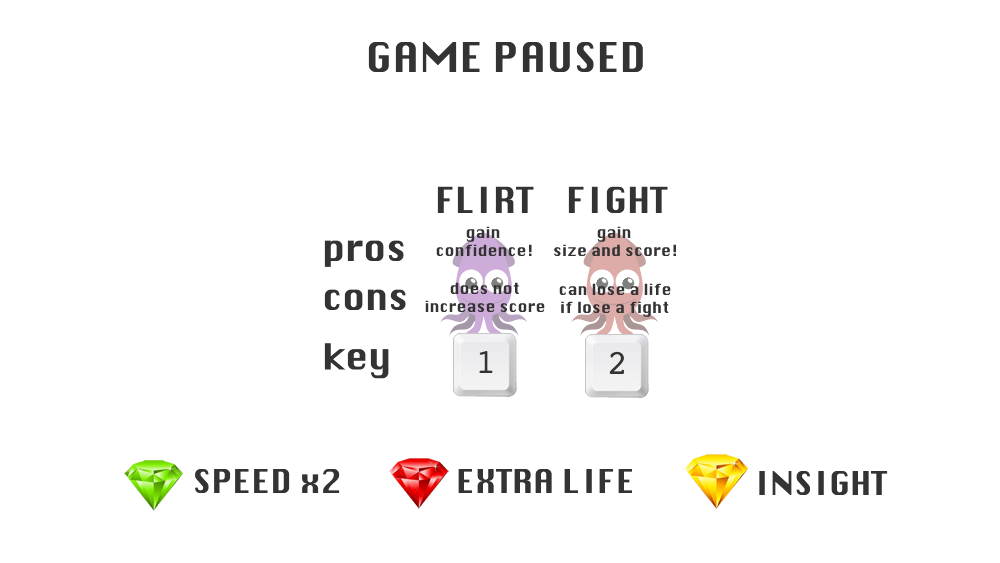
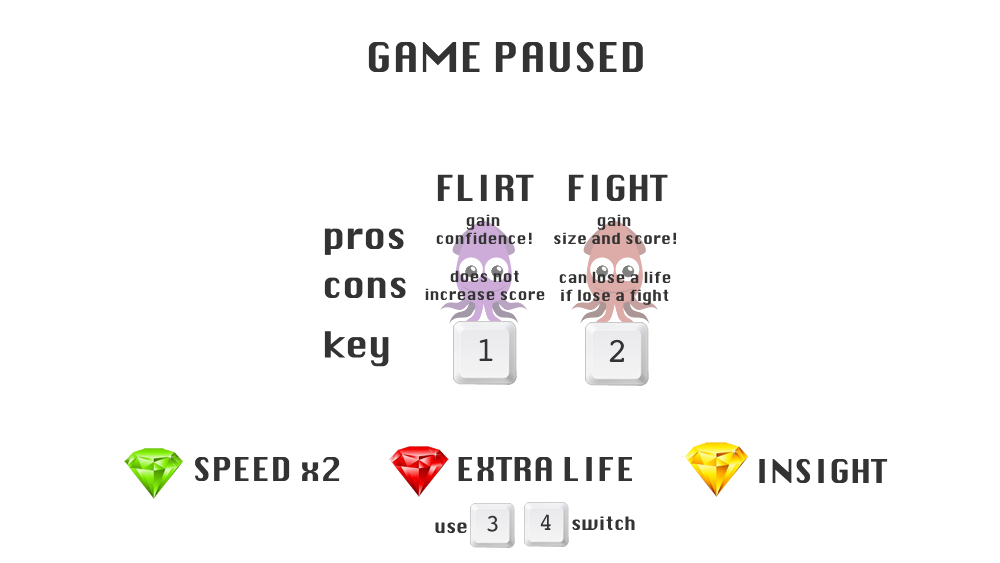
beta release

diff --git a/src/objects/PlayerSquid.js b/src/objects/PlayerSquid.js
@@ -13,7 +13,7 @@ class PlayerSquid extends Squid {
 
 		this.speed = 6;
 		this.powerUpSelected= null;
-		this.powerUpBank = [];
+		this.powerUpBank = {};
     }
 
     /**
@@ -83,13 +83,12 @@ class PlayerSquid extends Squid {
 		}
 		// Number 4 for toggle powerup
 		if (pressedKeys.contains(52)) {
-			for (var type in this.powerUpBank) {
-				if (type != this.powerUpSelected) {
-					this.powerUpSelected = type;
-					break;
-				}
-			}
-			console.log("Power up: " + this.powerUpSelected);
+			if (this.powerUpSelected == POWER_UP.SPEED && this.powerUpBank[POWER_UP.INVINCIBLE] != null)
+				this.selectPowerUp(POWER_UP.INVINCIBLE)
+			else if (this.powerUpBank[POWER_UP.SPEED] != null)
+				this.selectPowerUp(POWER_UP.SPEED)
+
+			pressedKeys.remove(52);
 		}
     }
 
@@ -182,7 +181,7 @@ class PlayerSquid extends Squid {
 				this.powerUpBank[type] = {"count":0, "object": object, "start": null};
 			
 			this.powerUpBank[type].count++;
-			this.powerUpSelected = type;
+			this.selectPowerUp(type);
 		}
 	}
 
@@ -194,14 +193,27 @@ class PlayerSquid extends Squid {
 
 			if (type == POWER_UP.SPEED) {
 				this.speed *= 2;
+				if (this.powerUpBank[POWER_UP.INVINCIBLE] != null)
+					this.selectPowerUp(POWER_UP.INVINCIBLE);
 			}
 			else if (type == POWER_UP.INVINCIBLE) {
 				console.log("INVINCIBLE");
 				SCORE.removePowerUp(this.powerUpBank[POWER_UP.INVINCIBLE].object)
 				if (this.powerUpBank[POWER_UP.INVINCIBLE].count == 0)
 					this.powerUpBank[POWER_UP.INVINCIBLE] = null;
+				if (this.powerUpBank[POWER_UP.SPEED] != null)
+					this.selectPowerUp(POWER_UP.SPEED);
 			}
 		}
+	}
+
+	selectPowerUp(type) {
+		this.powerUpSelected = type;
+		for (var t in this.powerUpBank) {
+			if (this.powerUpBank[t] != null)
+				this.powerUpBank[t].object.displayImage = this.powerUpBank[t].object.defaultImage;
+		}
+		this.powerUpBank[type].object.displayImage = this.powerUpBank[type].object.selectedImage;
 	}
 
 	makeHitbox(){

diff --git a/src/objects/Score.js b/src/objects/Score.js
@@ -22,22 +22,24 @@ class Score extends Sprite {
 
     addPoints() {
     	this.score++;
-    	if (this.score % 100 == 0) {
-    		SPAWNER.spawnPowerup(POWER_UP.LIFE);
-    	}
-    	else if (this.score % 10 == 0) {
+    	if (this.score % 30 == 0 && PLAYER.powerUpBank[POWER_UP.INVINCIBLE] == null) {
     		SPAWNER.spawnPowerup(POWER_UP.INVINCIBLE);
     	}
-    	else if (this.score % 5 == 0) {
+    	else if (this.score % 10 == 0) {
+    		SPAWNER.spawnPowerup(POWER_UP.LIFE);
+    	}
+    	else if (this.score % 5 == 0 && PLAYER.powerUpBank[POWER_UP.SPEED] == null) {
     		SPAWNER.spawnPowerup(POWER_UP.SPEED);
     	}
     }
 
     addPowerUp(object) {
+    	var x = this.x + 850;
+    	if (object.event == POWER_UP.INVINCIBLE) x += 40
     	if (this.powerUp[object.event] == null) {
     		this.powerUp[object.event] = {"count" : 0, "object": object};
-    		this.powerUp[object.event].object.x = this.x + 850 + (this.powerUp.length - 1) * 60;
-	    	this.powerUp[object.event].object.y = this.y + 10;
+    		this.powerUp[object.event].object.x = x;
+	    	this.powerUp[object.event].object.y = this.y + 6;
 	    	this.powerUp[object.event].object.scaleX = .5;
 	    	this.powerUp[object.event].object.scaleY = .5;
     	}

diff --git a/src/objects/Spawner.js b/src/objects/Spawner.js
@@ -77,13 +77,13 @@ class Spawner{
 		var powerup;
 		var i = this.powerup_container.getChildren().length;
 		if (type == POWER_UP.SPEED) {
-			powerup = new Sprite("speed" + i, "gem_green.png", this.powerup_container);
+			powerup = new Gem("speed" + i, "green", this.powerup_container);
 		}
 		else if (type == POWER_UP.LIFE) {
 			var powerup = new Sprite("life" + i, "gem_red.png", this.powerup_container);
 		}
 		else if (type == POWER_UP.INVINCIBLE) {
-			var powerup = new Sprite("invincible" + i, "gem_yellow.png", this.powerup_container);
+			var powerup = new Gem("invincible" + i, "yellow", this.powerup_container);
 		}
 		powerup.setX(Math.floor(Math.random() * 800 + 1));
 		powerup.setY(Math.floor(Math.random() * 600 + 50));

diff --git a/src/objects/Gem.js b/src/objects/Gem.js
@@ -1,0 +1,20 @@
+"use strict";
+
+class Gem extends Sprite {
+    constructor(id, color, parent){
+		super(id, "gem_" + color + ".png", parent);
+		this.defaultImage = this.displayImage;
+		this.loadSelectedImage(color);
+    }
+
+    /**
+	 * Loads the image, sets a flag called 'loaded' when the image is ready to be drawn
+	 */
+	loadSelectedImage(color){
+		this.selectedImage = new Image();
+	  	this.selectedImage.onload = function(){
+	  		this.loaded = true;
+	  	};
+	  	this.selectedImage.src = 'resources/gem_glow_' + color + '.png';
+	}
+}

diff --git a/index.html b/index.html
@@ -88,6 +88,7 @@
 <script type="text/javascript" src="src/objects/Shark.js"></script>
 <script type="text/javascript" src="src/objects/PlayerSquid.js"></script>
 <script type="text/javascript" src="src/objects/Food.js"></script>
+<script type="text/javascript" src="src/objects/Gem.js"></script>
 <script type="text/javascript" src="src/objects/Score.js"></script>
 <script type="text/javascript" src="src/objects/Info.js"></script>
 <script type="text/javascript" src="src/objects/Spawner.js"></script>
